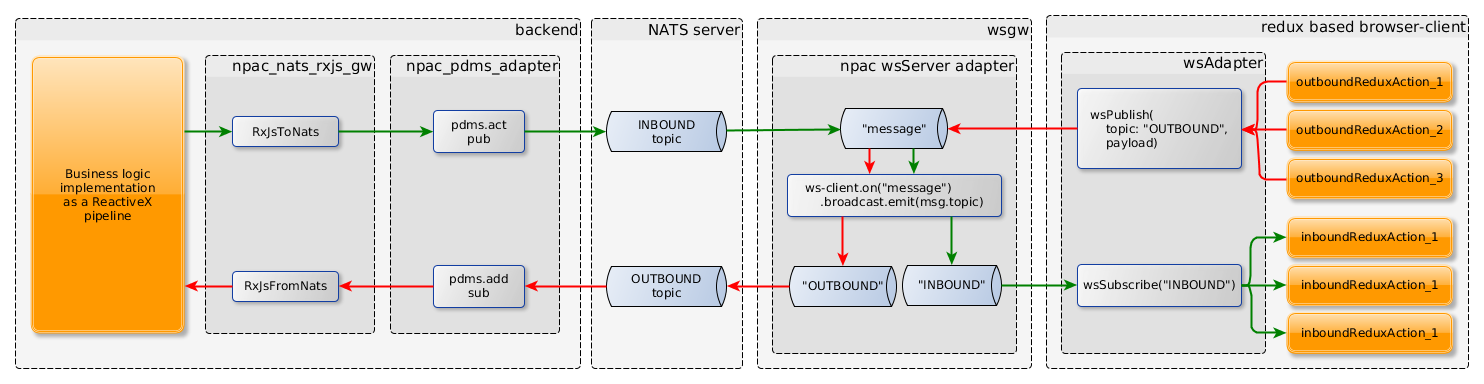
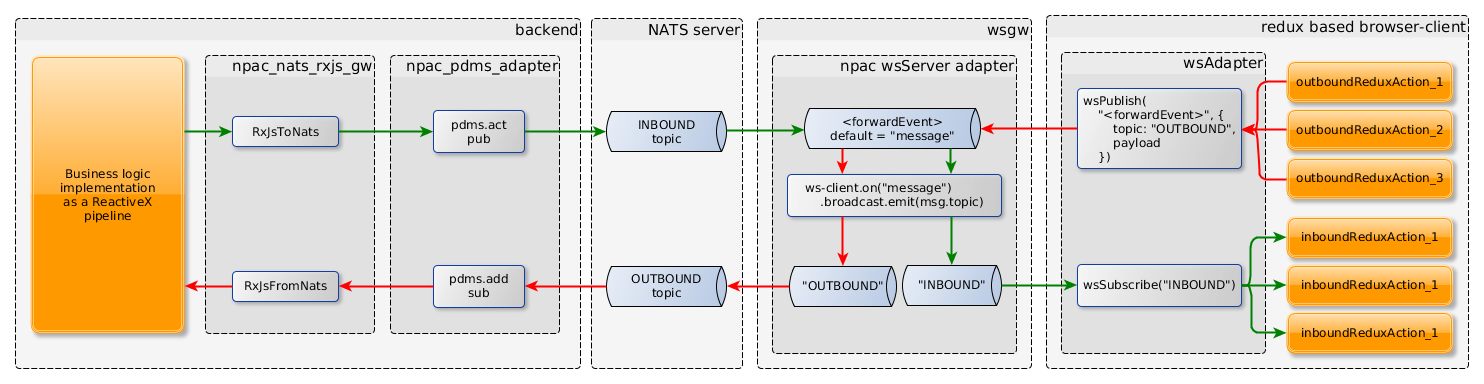
Add -e, forwardEvent parameter to the server Describe how the message forwarding works, in the README

Changed region(s): [[0.496, 0.2812, 0.6819, 0.4375], [0.7129, 0.25, 0.8369, 0.4062]]

diff --git a/dist/adapters/wsServer/index.js b/dist/adapters/wsServer/index.js
@@ -36,6 +36,7 @@ function _interopRequireDefault(obj) { return obj && obj.__esModule ? obj : { de
 var startup = function startup(container, next) {
     // Merges the defaults with the config coming from the outer world
     var serviceConfig = _lodash2.default.merge({}, _config2.default, { wsServer: container.config.wsServer || {} });
+    var forwarderEvent = serviceConfig.wsServer.forwarderEvent;
     container.logger.info('Start up wsServer adapter');
     container.logger.info('wsServer.config: ' + JSON.stringify(serviceConfig));
 
@@ -44,9 +45,9 @@ var startup = function startup(container, next) {
 
     io.on('connection', function (socket) {
         container.logger.info('Client connected');
-        socket.on('message', function (data, confirmCb) {
-            var targetEv = serviceConfig.wsServer.forwardTopics ? data.topic : 'message';
-            container.logger.info('[message] >> ' + JSON.stringify(data) + ' >> [' + targetEv + ']');
+        socket.on(forwarderEvent, function (data, confirmCb) {
+            var targetEv = serviceConfig.wsServer.forwardTopics ? data.topic : forwarderEvent;
+            container.logger.info('[' + forwarderEvent + '] >> ' + JSON.stringify(data) + ' >> [' + targetEv + ']');
             socket.broadcast.emit(targetEv, data);
             if (_lodash2.default.isFunction(confirmCb)) {
                 confirmCb(true);

diff --git a/src/adapters/wsServer/index.js b/src/adapters/wsServer/index.js
@@ -22,6 +22,7 @@ import _ from 'lodash'
 const startup = (container, next) => {
     // Merges the defaults with the config coming from the outer world
     const serviceConfig = _.merge({}, defaults, { wsServer: container.config.wsServer || {} })
+    const forwarderEvent = serviceConfig.wsServer.forwarderEvent
     container.logger.info('Start up wsServer adapter')
     container.logger.info(`wsServer.config: ${JSON.stringify(serviceConfig)}`)
 
@@ -30,9 +31,9 @@ const startup = (container, next) => {
 
     io.on('connection', function (socket) {
         container.logger.info('Client connected')
-        socket.on('message', function (data, confirmCb) {
-            const targetEv = serviceConfig.wsServer.forwardTopics ? data.topic : 'message'
-            container.logger.info(`[message] >> ${JSON.stringify(data)} >> [${targetEv}]`)
+        socket.on(forwarderEvent, function (data, confirmCb) {
+            const targetEv = serviceConfig.wsServer.forwardTopics ? data.topic : forwarderEvent
+            container.logger.info(`[${forwarderEvent}] >> ${JSON.stringify(data)} >> [${targetEv}]`)
             socket.broadcast.emit(targetEv, data)
             if (_.isFunction(confirmCb)) {
                 confirmCb(true)

diff --git a/dist/cli.spec.js b/dist/cli.spec.js
@@ -50,6 +50,7 @@ describe('cli', function () {
                 configFileName: "config.yml",
                 wsServer: {
                     forwardTopics: false,
+                    forwarderEvent: "message",
                     port: 8001
                 },
                 wsPdmsGw: {
@@ -69,7 +70,7 @@ describe('cli', function () {
     });
 
     it('#parse - server command with full list of args', function (done) {
-        var processArgv = ['node', 'src/index.js', 'server', '-c', 'config.yml', '-f', '-i', 'IN1,IN2, IN3', '-o', 'OUT1, OUT2 ,OUT3', '-n', 'nats://localhost:4222', '-p', '8002'];
+        var processArgv = ['node', 'src/index.js', 'server', '-c', 'config.yml', '-f', '-e', 'fwd$', '-i', 'IN1,IN2, IN3', '-o', 'OUT1, OUT2 ,OUT3', '-n', 'nats://localhost:4222', '-p', '8002'];
         var expected = {
             command: {
                 name: 'server',
@@ -79,6 +80,7 @@ describe('cli', function () {
                 configFileName: "config.yml",
                 wsServer: {
                     forwardTopics: true,
+                    forwarderEvent: "fwd$",
                     port: 8002
                 },
                 wsPdmsGw: {

diff --git a/src/cli.js b/src/cli.js
@@ -26,6 +26,12 @@ const parse = (defaults, processArgv=process.argv) => {
                     type: 'boolean',
                     default: defaults.wsServer.forwardTopics
                 })
+                .option("forwarderEvent", {
+                    alias: "e",
+                    desc: "The name of the event the server is listen to forward the incoming messages",
+                    type: 'string',
+                    default: defaults.wsServer.forwarderEvent
+                })
                 .option("inbound", {
                     alias: "i",
                     desc: "Comma separated list of inbound NATS topics to forward through websocket",
@@ -55,6 +61,7 @@ const parse = (defaults, processArgv=process.argv) => {
                         configFileName: argv.config,
                         wsServer: {
                             forwardTopics: argv.forward,
+                            forwarderEvent: argv.forwarderEvent,
                             port: argv.port
                         },
                         wsPdmsGw: {

diff --git a/dist/cli.js b/dist/cli.js
@@ -32,6 +32,11 @@ var parse = function parse(defaults) {
             desc: "Forwards messages among inbound and outbound topics",
             type: 'boolean',
             default: defaults.wsServer.forwardTopics
+        }).option("forwarderEvent", {
+            alias: "e",
+            desc: "The name of the event the server is listen to forward the incoming messages",
+            type: 'string',
+            default: defaults.wsServer.forwarderEvent
         }).option("inbound", {
             alias: "i",
             desc: "Comma separated list of inbound NATS topics to forward through websocket",
@@ -58,6 +63,7 @@ var parse = function parse(defaults) {
                 configFileName: argv.config,
                 wsServer: {
                     forwardTopics: argv.forward,
+                    forwarderEvent: argv.forwarderEvent,
                     port: argv.port
                 },
                 wsPdmsGw: {

diff --git a/src/cli.spec.js b/src/cli.spec.js
@@ -30,6 +30,7 @@ describe('cli', () => {
                 configFileName: "config.yml",
                 wsServer: {
                     forwardTopics: false,
+                    forwarderEvent: "message",
                     port: 8001
                 },
                 wsPdmsGw: {
@@ -54,6 +55,7 @@ describe('cli', () => {
             'server',
             '-c', 'config.yml',
             '-f',
+            '-e', 'fwd$',
             '-i', 'IN1,IN2, IN3',
             '-o', 'OUT1, OUT2 ,OUT3',
             '-n', 'nats://localhost:4222',
@@ -68,6 +70,7 @@ describe('cli', () => {
                 configFileName: "config.yml",
                 wsServer: {
                     forwardTopics: true,
+                    forwarderEvent: "fwd$",
                     port: 8002
                 },
                 wsPdmsGw: {

diff --git a/dist/adapters/wsServer/config.js b/dist/adapters/wsServer/config.js
@@ -1,10 +1,11 @@
-"use strict";
+'use strict';
 
 /**
  * The default configuration for the wsServer adapter
  */
 module.exports = {
     wsServer: {
+        forwarderEvent: process.env.WSGW_SERVER_FORWARDER_EVENT || 'message',
         forwardTopics: process.env.WSGW_SERVER_FORWARD_TOPICS || false,
         port: process.env.WSGW_SERVER_PORT || 8001
     }

diff --git a/src/adapters/wsServer/config.js b/src/adapters/wsServer/config.js
@@ -3,6 +3,7 @@
  */
 module.exports = {
     wsServer: {
+        forwarderEvent: process.env.WSGW_SERVER_FORWARDER_EVENT || 'message',
         forwardTopics: process.env.WSGW_SERVER_FORWARD_TOPICS || false,
         port: process.env.WSGW_SERVER_PORT || 8001
     }

diff --git a/dist/adapters/wsServer/config.spec.js b/dist/adapters/wsServer/config.spec.js
@@ -21,6 +21,7 @@ describe('wsServer.config', function () {
         var expected = {
             wsServer: {
                 forwardTopics: false,
+                forwarderEvent: 'message',
                 port: 8001
             }
         };

diff --git a/src/adapters/wsServer/config.spec.js b/src/adapters/wsServer/config.spec.js
@@ -10,6 +10,7 @@ describe('wsServer.config', () => {
         const expected = {
             wsServer: {
                 forwardTopics: false,
+                forwarderEvent: 'message',
                 port: 8001
             }
         }

diff --git a/README.md b/README.md
@@ -46,6 +46,40 @@ For example you can implement a backend service, which is a sensor event consume
 that preprocesses and forwards the measured values toward frontend applications that visualize them.
 At the same time you can control the backend by sending command messages via the `wsgw` as a message producer client.
 
+### Events vs. topics
+
+The WebSocket uses event handlers to manage the receiving and sending of messages.
+The server and the clients can subscribe to event names, that they observe,
+and act in case an incoming message arrives.
+
+If we want to send a message from a client to more than one recipient clients,
+that connect to the same WebSocket server, we can use the broadcast function, at the server side.
+
+By default the `wsgw` application in server mode subscribes to the "message" event,
+and the messages it got immediately broadcasts back to all the clients with the same event "message" name.
+So any client, that is subscribed to the "message" topic will get the message (except the original sender).
+Here there is some similarity to how the topics work in case of messaging middlewares,
+such as the NATS works.
+
+Furthermore, when the server receives an incoming event in the "message",
+it checks if it has a `topic` property.
+If yes, then it will forward the message to an event named as the value of this property field,
+instead of using the original "message" name. Now the clients can subscribe to the topic name,
+instead of the "message", then the sender can make difference among the recipients, which should get the message.
+The sender always emits the message with the "message" event name. We call it `forwarderEvent`.
+The default name of the `forwardEvent` is `"message"`, but you can define a different one, via a server config parameter.
+
+So far we have achieved to use `wsgw` as a server that provides topic-like feature to us in the WebSocket domain.
+The target recipiens can be addressed by the `topic` field withing the messages.
+
+It is also possible to define real topics of a messaging middleware that will be connected to this ecosystem.
+you can define so called _outbound_ topics to the server,
+that should match to the value of the `topic` field of the outgoing messages,
+then the server will forward these messages toward not only to the WebSocket events, but to the NATS server topics,
+if the `forward` mode is switched on. In this mode, you also can list the _inbound_ NATS topics the `wsgw` will subscribe to,
+then forward the arriving messages to the `forwardEvent`, so the forwarder will further broadcasts to the final recipients.
+These incoming messages should also contain the `topic` property of course.
+
 ## Installation
 
 Run the install command:
@@ -67,17 +101,20 @@ Check if `wsgw` is properly installed:
     Run in server mode
 
     Options:
-      --version       Show version number                                  [boolean]
-      --help          Show help                                            [boolean]
-      --config, -c    The name of the configuration file     [default: "config.yml"]
-      --port, -p      The webSocket server port             [number] [default: 8001]
-      --forward, -f   Forwards messages among inbound and outbound topics
+      --version             Show version number                            [boolean]
+      --help                Show help                                      [boolean]
+      --config, -c          The name of the configuration file
+                                                             [default: "config.yml"]
+      --port, -p            The webSocket server port       [number] [default: 8001]
+      --forward, -f         Forwards messages among inbound and outbound topics
                                                           [boolean] [default: false]
-      --inbound, -i   Comma separated list of inbound NATS topics to forward through
-                      websocket                               [string] [default: ""]
-      --outbound, -o  Comma separated list of outbound NATS topics to forward
-                      towards from websocket                  [string] [default: ""]
-      --natsUri, -n   NATS server URI used by the pdms adapter.
+      --forwarderEvent, -e  The name of the event the server is listen to forward
+                            the incoming messages      [string] [default: "message"]
+      --inbound, -i         Comma separated list of inbound NATS topics to forward
+                            through websocket                 [string] [default: ""]
+      --outbound, -o        Comma separated list of outbound NATS topics to forward
+                            towards from websocket            [string] [default: ""]
+      --natsUri, -n         NATS server URI used by the pdms adapter.
                                       [string] [default: "nats://demo.nats.io:4222"]
 ```
 
@@ -194,6 +231,11 @@ The file contains an array of message entries, where each entry can contain the 
   The delay is relative to the previous sending.
 - `message`: The message object, to send.
 - `file`: The name of the file, that contains the message. First it loads from the file, then sends it.
+
+Note: The messages you want to send to a specific topic should contain the name of the target topic,
+in the message as a `topic` property, but the event name you have to send is the `<forwardEvent>` of the server,
+that is "message" by default. If you change the name of the `forwardEvent` on the server,
+you also have to change it in the `producer` as well. You can use the `-t` argument for this, that is by default set to "message".
 
 ## References
 
